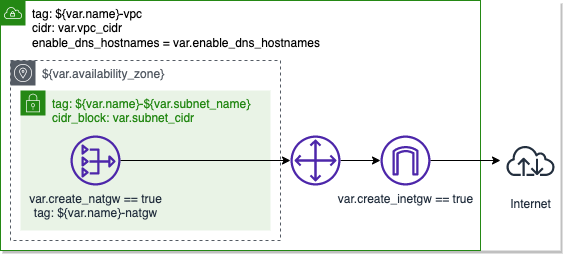
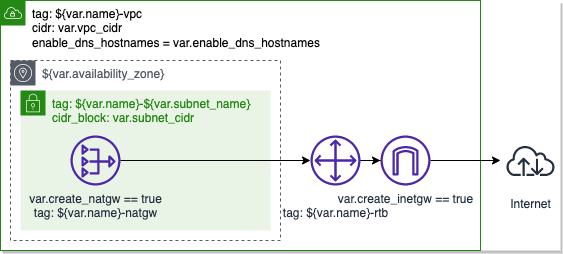
Privateサブネット対応

Changed region(s): [[0.4831, 0.5236, 0.6643, 0.7441], [0.4831, 0.7992, 0.6945, 0.8819]]

diff --git a/aws/vpc/private/README.md b/aws/vpc/private/README.md
@@ -1,0 +1,31 @@
+# Terraform Modules for AWS VPC
+
+## Private Subnet
+
+![private_vpc](../_img/private_vpc.png)
+
+### Variables
+
+| Varriable Name       | Default                         | Description |
+| -------------------- | ------------------------------- | ----------- |
+| name                 |                                 |             |
+| enable_dns_hostnames | true                            |             |
+| vpc_cidr             |                                 |             |
+| subnet_cidr          |                                 |             |
+| availability_zone    | ap-northeast-1a                 |             |
+| subnet_name          | private-a1                      |             |
+| create_s3_endpoint   | true                            |             |
+| s3_service_name      | com.amazonaws.ap-northeast-1.s3 |             |
+
+### Usage
+
+```terraform
+module "network" {
+    source = "github.com/tamuto/terramod/aws/vpc/private"
+
+    name = "name"
+
+    vpc_cidr = "10.0.0.0/16"
+    subnet_cidr = "10.0.0.0/24"
+}
+```
